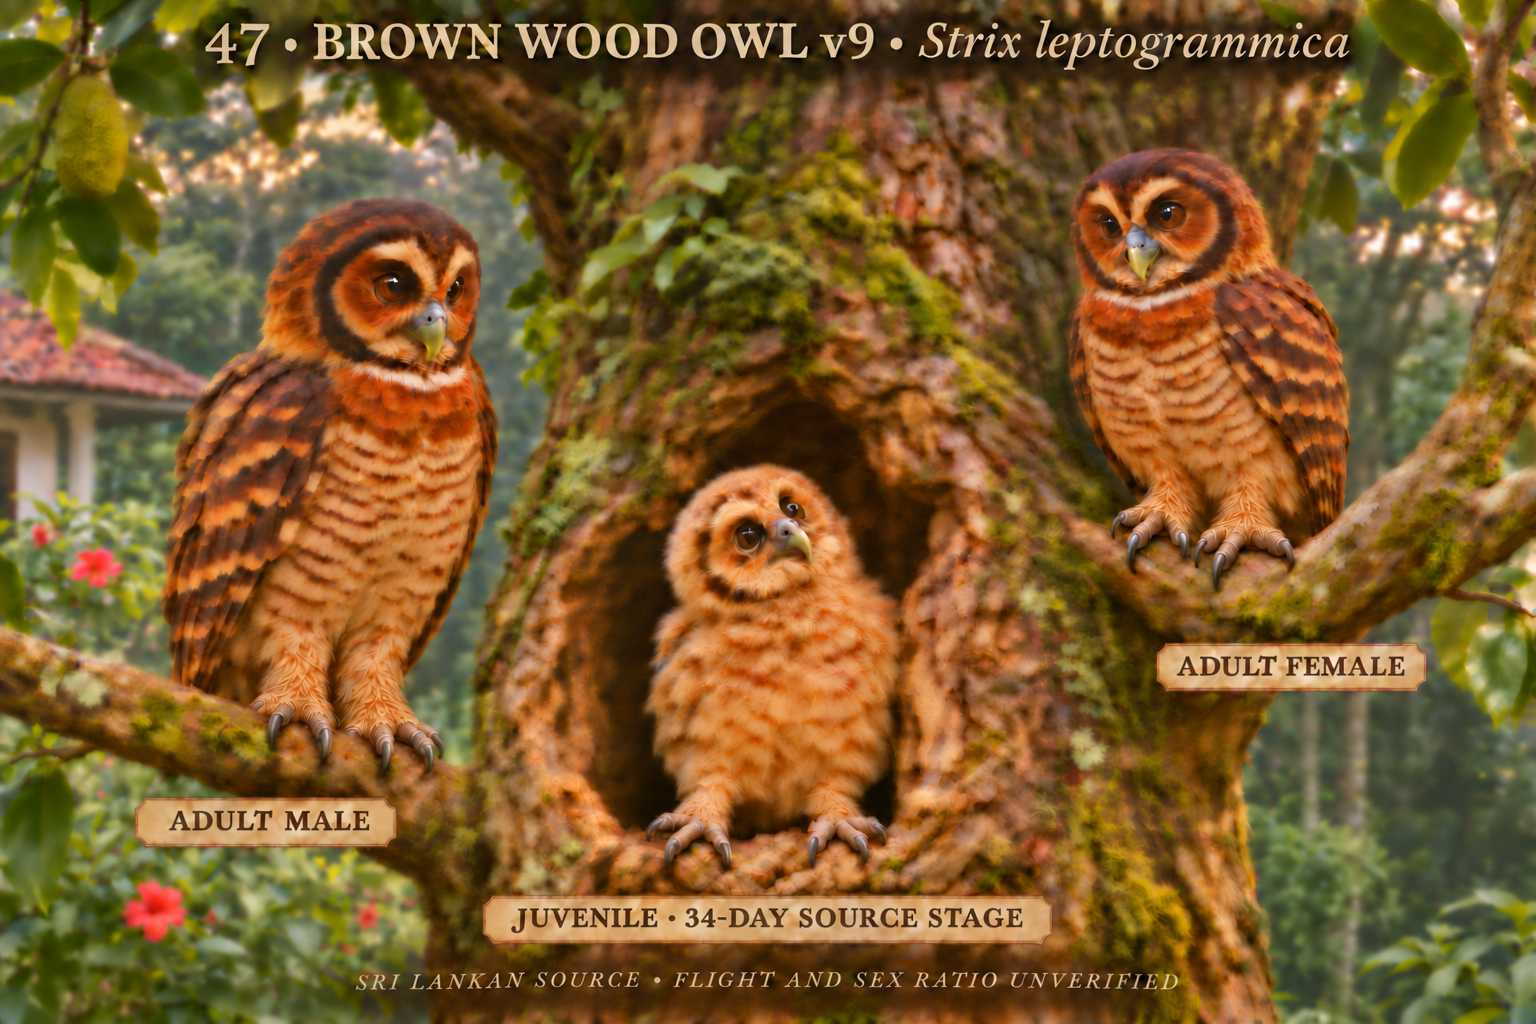
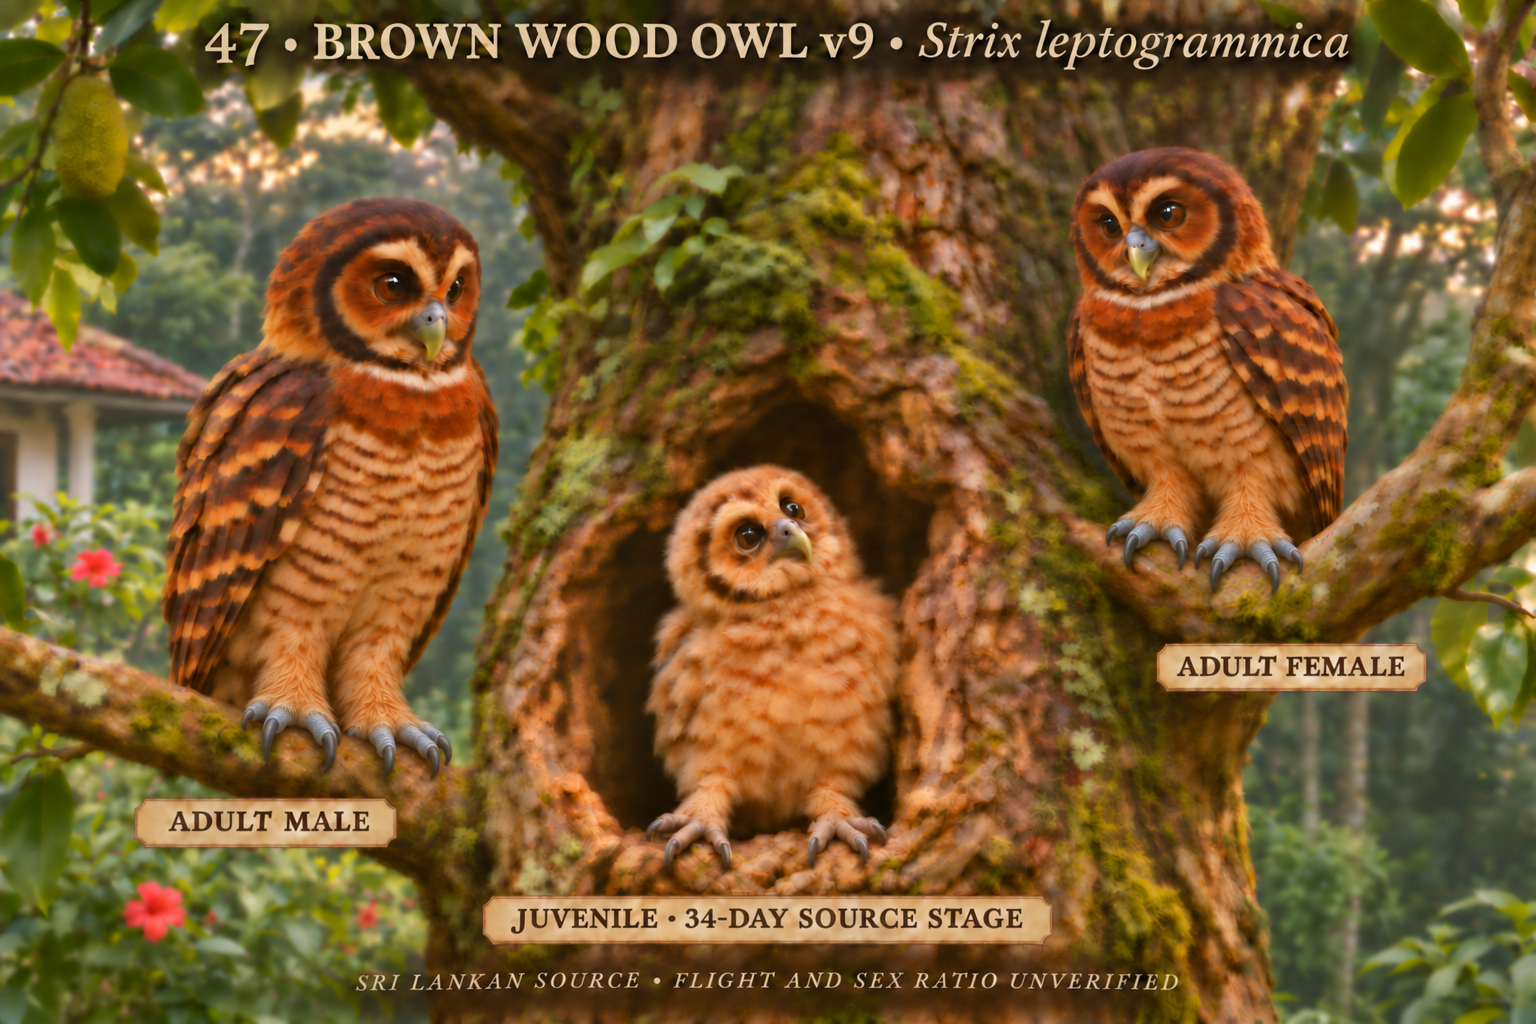
47-strix-leptogrammica-v9 ARCHIVED

diff --git a/owl-pet/production/WORKFLOW_LESSONS.md b/owl-pet/production/WORKFLOW_LESSONS.md
@@ -827,3 +827,8 @@ Applied and visually checked here only; not universal scientific validation.
 ## 20261127T2003Z 108-otus-rutilus-v10
 Actual full image viewed against v9 and Vassen field photo. Broad repetitive dark belly rings visibly removed; surface now fine irregular brown shading. Adult IDs/yellow eyes/scapular white-black marks/gray-brown bare toes/dark claws retained, male/female near equal height. Juvenile dark mask/pink lower lid/closed concealed wings/no tufts, both feet grip continuous branch; no nest/mature flight pose. However numerous small looping hairlike filaments persist and exceed photo's short granular feather texture; this defect remains NEEDS_REVISION. The bounded tonal edit worked but did not solve material identity, so no scientific pass or completed-species increment. Header v10 correct. Lesson: target color-pattern separately from fiber geometry, don't claim successful biological calibration when only stripe contrast fixed.
 Applied and visually checked here only; not universal scientific validation.
+
+
+## 20261127T2003Z 47-strix-leptogrammica-v9
+Actually viewed initial enlarged corrected detail, final wholeplate and enlarged final left adult toe crop. Both adult distal shafts now bluishgrey rather than pink; dull lead-grey curved claws remain bare, feet retain branch contact. Basal feather fringes visible but final wholeplate softens microbarbs; no quantitative phalanx proportion verified. Original diagnosis refined: v8 already had basal barbs, so this is chiefly shaft-colour correction, not first addition of feathering. Two-stage imagegen workflow applied and colour improvement visually confirmed for this plate only. Dark adult eyes/greenhorn bills/bluegrey cere/white throat/rufous pectorals/barred belly retained; young source-stage34-day cavity support remains, not claimed exact reconstruction or measured age. Female display on different perch remains uncalibrated despite guide female larger; no science pass. No novel nest construction assertion. v9 title correct, prior versions/confirmations retained. PWL for bounded colour fix; fine anatomical boundary/sex-size/juvenile exact stage still pending.
+Applied and visually checked here only; not universal scientific validation.
